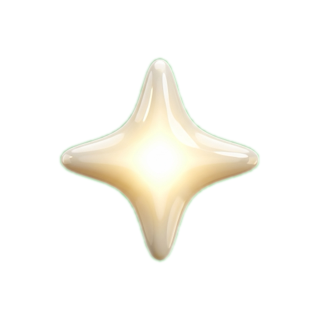
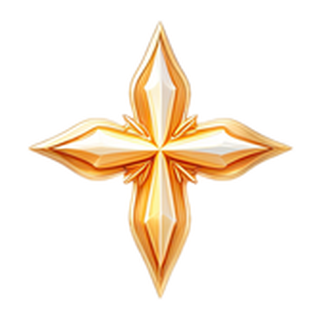
ごほうび画像: ローカル生成スクリプトを追加し、メダル・星・ハート・きらきらを置き換え
- scripts/generate-reward-images-local.py: DreamShaper XL Lightning で白背景に描き、背景を抜いて中央に配置
- 候補はレビュー用フォルダーに出力し、選んだものだけ public/ に反映（採用 seed をスクリプトに記録）
- Gemini 版スクリプトの停止メッセージからローカル版を案内

Changed region(s): [[0.0938, 0.0625, 0.9062, 0.9375]]

diff --git a/src/components/StampReward.tsx b/src/components/StampReward.tsx
@@ -1,7 +1,7 @@
 import { motion } from 'framer-motion'
 import { useResponsiveSize } from '../lib/useResponsiveSize'
 
-// Custom art (see scripts/generate-reward-images.mjs) instead of plain system emoji — the
+// Custom art (see scripts/generate-reward-images-local.py) instead of plain system emoji — the
 // 5 orbiting accents cycle through the 3 sparkle/star/heart images for the same visual
 // variety the original 5-emoji burst had.
 const ACCENT_IDS = ['star', 'heart', 'sparkle', 'star', 'sparkle']

diff --git a/scripts/generate-reward-images-local.py b/scripts/generate-reward-images-local.py
@@ -1,0 +1,249 @@
+#!/usr/bin/env python3
+"""Reward-burst decorations for the results screen (public/images/rewards/<id>.png, shown
+by src/components/StampReward.tsx), generated on-device — the DECORATION track in
+image-style-guardrail.mjs. Replaces the Gemini version (generate-reward-images.mjs), since
+Gemini is reserved for character design (docs/architecture.md).
+
+Same checkpoint and settings as the まちがいさがし scripts (DreamShaper XL Lightning, Euler
+trailing, few steps, bf16 on Apple GPU, fp32 VAE decode). Each image is drawn on a flat
+plain white backdrop, which is keyed out here (light, nearly grey pixels connected to the
+border — see key_backdrop), then tidied: only the centred object is kept (floor
+shadows and specks dropped) and it is re-centred in a square.
+
+Candidates are written to a review folder, never straight into public/ — look at the sheet,
+then copy the chosen one over:
+
+    taskpolicy -c background ~/realvisxl-test/.venv/bin/python3 \\
+        scripts/generate-reward-images-local.py [--only=medal,star] [--seeds=3] [--seed0=1] \\
+        [--out=DIR] [--sheet=OUT.png]
+    cp <out>/medal_s2.png public/images/rewards/medal.png
+
+Env: SPOT_COOLDOWN_S (default 20), SPOT_MODEL_DIR.
+"""
+import argparse
+import os
+import time
+
+import numpy as np
+import torch
+from diffusers import EulerDiscreteScheduler, StableDiffusionXLPipeline
+from PIL import Image, ImageDraw, ImageFilter
+
+SCRIPT_DIR = os.path.dirname(os.path.abspath(__file__))
+REPO_ROOT = os.path.dirname(SCRIPT_DIR)
+REWARD_DIR = os.path.join(REPO_ROOT, "public", "images", "rewards")
+MODEL_DIR = os.environ.get("SPOT_MODEL_DIR", os.path.expanduser("~/realvisxl-test/models/dreamshaper-xl-lightning"))
+COOLDOWN_S = float(os.environ.get("SPOT_COOLDOWN_S", 20))
+STEPS = 8
+GUIDANCE = 3.0
+GEN_SIZE = 1024
+ICON_SIZE = 320  # same as the existing assets
+
+# Keep these ids in sync with src/components/StampReward.tsx. Shipped picks: medal seed 1,
+# star seed 2 (both with the first prompts below), heart seed 13, sparkle seed 11.
+REWARDS = {
+    "medal": "a gold medal on a short red and blue ribbon, a raised star on the medal",
+    "star": "one five-pointed gold star with rounded points",
+    "heart": "one pink and red heart floating in the air",
+    # "cross" is what finally got four points (the shipped one is seed 11) — but most seeds
+    # then draw a literal cross, so expect to look through several. Without it: 5-6 points.
+    "sparkle": "one simple four-pointed twinkle sparkle shaped like a thin cross with long curved points, pale gold, glowing white core",
+}
+
+# The DECORATION_STYLE_GUARDRAIL in image-style-guardrail.mjs, rewritten as SDXL tags. CLIP
+# reads only the first 77 tokens, so the backdrop comes right after the object — when it was
+# last it got cut off and the model painted a grey studio gradient that can't be keyed out.
+# White, not a chroma-key green: naming a colour for the backdrop tinted the object itself
+# (green stars and hearts), while white is what the まちがいさがし sprites already key well.
+STYLE = (
+    "isolated on a plain pure white background, cute glossy 3d game reward icon, polished, "
+    "jewel-like shine, bright highlights, smooth rounded shapes, warm pastel colors, centered"
+)
+NEGATIVE = (
+    "shadow, drop shadow, floor, ground, reflection, gradient, vignette, grey background, green, "
+    "face, eyes, character, text, letters, watermark, logo, photo, dark, muted, "
+    "multiple objects, cropped, frame, border"
+)
+MARGIN = 0.06  # empty border around the object in the final square, like the current assets
+
+
+def prompt_for(detail):
+    return f"{detail}, {STYLE}"
+
+
+def components(alpha, threshold=128):
+    """Connected opaque regions of an alpha array, largest first, as lists of (y, x)."""
+    h, w = alpha.shape
+    seen = alpha < threshold
+    found = []
+    for y0 in range(h):
+        for x0 in range(w):
+            if seen[y0, x0]:
+                continue
+            seen[y0, x0] = True
+            stack, pixels = [(y0, x0)], []
+            while stack:
+                y, x = stack.pop()
+                pixels.append((y, x))
+                for yy, xx in ((y + 1, x), (y - 1, x), (y, x + 1), (y, x - 1)):
+                    if 0 <= yy < h and 0 <= xx < w and not seen[yy, xx]:
+                        seen[yy, xx] = True
+                        stack.append((yy, xx))
+            found.append(pixels)
+    return sorted(found, key=len, reverse=True)
+
+
+def tidy(path):
+    """Drops what the keying left behind besides the object — a floor shadow or reflection
+    in a slightly different green, specks — by keeping only the biggest opaque region (plus
+    any piece at least a fifth its size, e.g. a detached ribbon end), then crops to it and
+    re-centres it in a square. Returns a warning when there's no clear object left, i.e. the
+    backdrop wasn't keyable and the cut ate the object."""
+    im = Image.open(path).convert("RGBA")
+    arr = np.asarray(im).copy()
+    h, w = arr.shape[:2]
+    parts = [p for p in components(arr[..., 3]) if len(p) >= 0.01 * h * w]
+    if not parts:
+        return ["no solid object left after keying (backdrop probably not plain white)"]
+    # The object is the region nearest the centre (it was asked for centred); a leftover
+    # patch of backdrop can be bigger, but it sits against the edge.
+    def centre_distance(part):
+        return min((y - h / 2) ** 2 + (x - w / 2) ** 2 for y, x in part[:: max(1, len(part) // 400)])
+
+    def touches_edge(part):
+        return any(y in (0, h - 1) or x in (0, w - 1) for y, x in part)
+
+    main = min(parts, key=centre_distance)
+    keep = np.zeros(arr.shape[:2], bool)
+    for part in parts:
+        if part is main or (len(part) >= 0.2 * len(main) and not touches_edge(part)):
+            ys, xs = zip(*part)
+            keep[list(ys), list(xs)] = True
+    warnings = [] if len(main) >= 0.04 * h * w else ["object is tiny after keying, check it"]
+    # Grow the kept mask by a couple of pixels so the soft anti-aliased edge stays.
+    grown = Image.fromarray((keep * 255).astype(np.uint8)).filter(ImageFilter.MaxFilter(5))
+    arr[..., 3] = np.minimum(arr[..., 3], np.asarray(grown))
+    out = Image.fromarray(arr)
+    out = out.crop(out.getbbox())
+    side = int(max(out.size) / (1 - 2 * MARGIN))
+    square = Image.new("RGBA", (side, side), (0, 0, 0, 0))
+    square.alpha_composite(out, ((side - out.width) // 2, (side - out.height) // 2))
+    square.resize((ICON_SIZE, ICON_SIZE), Image.LANCZOS).save(path)
+    return warnings
+
+
+def key_backdrop(image):
+    """Makes the light backdrop transparent. The model paints it as a soft off-white studio
+    gradient with a faint floor shadow, not one flat colour, so a pixel counts as backdrop
+    when it is light and nearly grey (the gold, pink and red of the rewards are all strongly
+    coloured) — and only when it is connected to the image border, so a white highlight
+    inside the object survives. remove_bg.py is built for the mascots' chroma key and ate
+    the gold and pink here."""
+    rgb = np.asarray(image.convert("RGB")).astype(int)
+    h, w = rgb.shape[:2]
+    chroma = rgb.max(-1) - rgb.min(-1)
+    light = rgb.mean(-1)
+    candidate = (chroma < 28) & (light > 165)
+    backdrop = np.zeros((h, w), bool)
+    stack = [(y, x) for y in range(h) for x in (0, w - 1)] + [(y, x) for x in range(w) for y in (0, h - 1)]
+    while stack:
+        y, x = stack.pop()
+        if backdrop[y, x] or not candidate[y, x]:
+            continue
+        backdrop[y, x] = True
+        for yy, xx in ((y + 1, x), (y - 1, x), (y, x + 1), (y, x - 1)):
+            if 0 <= yy < h and 0 <= xx < w and not backdrop[yy, xx]:
+                stack.append((yy, xx))
+    alpha = Image.fromarray(np.where(backdrop, 0, 255).astype(np.uint8)).filter(ImageFilter.GaussianBlur(1))
+    out = image.convert("RGBA")
+    out.putalpha(alpha)
+    return out
+
+
+def cut_out(raw_image, out_path):
+    """Key out the backdrop at the shipped size, then tidy. Returns warnings (empty when the
+    result looks like one clean object)."""
+    small = raw_image.convert("RGB").resize((ICON_SIZE, ICON_SIZE), Image.LANCZOS)
+    key_backdrop(small).save(out_path)
+    return tidy(out_path)
+
+
+def main():
+    ap = argparse.ArgumentParser()
+    ap.add_argument("--only")
+    ap.add_argument("--seeds", type=int, default=3)
+    ap.add_argument("--seed0", type=int, default=1)
+    ap.add_argument("--out", default=os.path.join(REPO_ROOT, "..", "reward-review"))
+    ap.add_argument("--sheet")
+    a = ap.parse_args()
+    ids = a.only.split(",") if a.only else list(REWARDS)
+    unknown = [i for i in ids if i not in REWARDS]
+    if unknown:
+        raise SystemExit(f"unknown reward id(s): {', '.join(unknown)} (known: {', '.join(REWARDS)})")
+    os.makedirs(a.out, exist_ok=True)
+
+    pipe = StableDiffusionXLPipeline.from_pretrained(MODEL_DIR, torch_dtype=torch.bfloat16, variant="fp16")
+    pipe.scheduler = EulerDiscreteScheduler.from_config(pipe.scheduler.config, timestep_spacing="trailing")
+    pipe = pipe.to("mps")
+    # bf16 VAE decode gives a blank image on Apple GPUs.
+    pipe.vae.to(torch.float32)
+
+    def decode(latents):
+        with torch.no_grad():
+            img = pipe.vae.decode(latents.to(torch.float32) / pipe.vae.config.scaling_factor).sample
+        img = ((img[0].clamp(-1, 1) + 1) * 127.5).round().to(torch.uint8).permute(1, 2, 0).cpu().numpy()
+        return Image.fromarray(img)
+
+    results = []
+    n_jobs = len(ids) * a.seeds
+    done = 0
+    for rid in ids:
+        for s in range(a.seeds):
+            seed = a.seed0 + s
+            t0 = time.time()
+            gen = torch.Generator(device="cpu").manual_seed(seed)
+            latents = pipe(
+                prompt=prompt_for(REWARDS[rid]), negative_prompt=NEGATIVE, width=GEN_SIZE, height=GEN_SIZE,
+                num_inference_steps=STEPS, guidance_scale=GUIDANCE, generator=gen, output_type="latent",
+            ).images
+            raw_image = decode(latents)
+            raw_image.save(os.path.join(a.out, f"{rid}_s{seed}.raw.png"))
+            out = os.path.join(a.out, f"{rid}_s{seed}.png")
+            warnings = cut_out(raw_image, out)
+            results.append((rid, seed, out, warnings))
+            done += 1
+            note = "" if not warnings else " — CHECK: " + "; ".join(warnings)
+            print(f"done {rid} seed {seed} in {time.time() - t0:.0f}s ({done}/{n_jobs}){note}", flush=True)
+            if done < n_jobs:
+                time.sleep(COOLDOWN_S)
+
+    if a.sheet:
+        # Current asset first, then each candidate, on two backdrops (the results screen is
+        # light pink; dark shows any leftover green fringe).
+        T = 180
+        cols = a.seeds + 1
+        sheet = Image.new("RGB", (cols * T, len(ids) * (2 * T + 16)), "white")
+        d = ImageDraw.Draw(sheet)
+        for r, rid in enumerate(ids):
+            current = os.path.join(REWARD_DIR, f"{rid}.png")
+            row = [current if os.path.exists(current) else None] + [p for i, _, p, _ in results if i == rid]
+            y = r * (2 * T + 16)
+            for c, p in enumerate(row):
+                if not p:
+                    continue
+                im = Image.open(p).convert("RGBA").resize((T, T))
+                for k, colour in enumerate(((255, 233, 244), (60, 50, 60))):
+                    bg = Image.new("RGBA", (T, T), colour + (255,))
+                    bg.alpha_composite(im)
+                    sheet.paste(bg.convert("RGB"), (c * T, y + k * T))
+            d.text((2, y + 2 * T + 2), f"{rid}: current, seeds {a.seed0}..{a.seed0 + a.seeds - 1}", fill="black")
+        sheet.save(a.sheet)
+        print("sheet:", a.sheet)
+
+    flagged = [f"{rid}_s{seed}" for rid, seed, _, w in results if w]
+    if flagged:
+        print(f"{len(flagged)} candidate(s) flagged, look closely: {', '.join(flagged)}")
+
+
+if __name__ == "__main__":
+    main()
